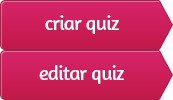
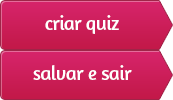
alteracao de nome e tipo para nome, alteracao do botao editar para salvar e sair

Changed region(s): [[0.1734, 0.63, 0.7803, 0.84]]

diff --git a/assets/js/main.js b/assets/js/main.js
@@ -76,7 +76,7 @@ $(function(){
 			var linkPerguntasRespostas 	= '#';
 			var linkCustomizacao 			= '#';
 			var linkExcluir 				= '#';
-			$('.box tbody').append('<tr><td><div class="texto"><p>'+titulo+'</p><span>tipo: '+tipo+' | editado em: '+dataEdicao+'</span></div><div class="botoes"><a class="ver-e-embutir" href="'+linkVerEmbutir+'"></a><ul class="menu-editar"><li><div class="editar"></div><ul class="nav2"><li><a href="'+linkNomeTipo+'">nome e tipo</a></a></li><li><a href="'+linkPerfis+'">perfis</a></a></li><li><a href="'+linkPerguntasRespostas+'">perguntas & respostas</a></a></li><li><a href="'+linkCustomizacao+'">customizacao</a></a></li><li><a href="'+linkExcluir+'">excluir</a></a></li></ul></li></ul></div></td></tr>');
+			$('.box tbody').append('<tr><td><div class="texto"><p>'+titulo+'</p><span>tipo: '+tipo+' | editado em: '+dataEdicao+'</span></div><div class="botoes"><a class="ver-e-embutir" href="'+linkVerEmbutir+'"></a><ul class="menu-editar"><li><div class="editar"></div><ul class="nav2"><li><a href="'+linkNomeTipo+'">nome</a></a></li><li><a href="'+linkPerfis+'">perfis</a></a></li><li><a href="'+linkPerguntasRespostas+'">perguntas & respostas</a></a></li><li><a href="'+linkCustomizacao+'">customizacao</a></a></li><li><a href="'+linkExcluir+'">excluir</a></a></li></ul></li></ul></div></td></tr>');
 		}
 		/*scrolla pro fim da página*/
 		$('html, body').animate({scrollTop:$(document).height()}, 1000);

diff --git a/home.php b/home.php
@@ -24,7 +24,7 @@
 										<ul class="menu-editar">
 											<li><div class="editar"></div>
 												<ul class="nav2">
-													<li><a href="#">nome e tipo</a></a></li>
+													<li><a href="#">nome</a></a></li>
 													<li><a href="#">perfis</a></a></li>
 													<li><a href="#">perguntas & respostas</a></a></li>
 													<li><a href="#">customizacao</a></a></li>
@@ -46,7 +46,7 @@
 										<ul class="menu-editar">
 											<li><div class="editar"></div>
 												<ul class="nav2">
-													<li><a href="#">nome e tipo</a></a></li>
+													<li><a href="#">nome</a></a></li>
 													<li><a href="#">perfis</a></a></li>
 													<li><a href="#">perguntas & respostas</a></a></li>
 													<li><a href="#">customizacao</a></a></li>
@@ -68,7 +68,7 @@
 										<ul class="menu-editar">
 											<li><div class="editar"></div>
 												<ul class="nav2">
-													<li><a href="#">nome e tipo</a></a></li>
+													<li><a href="#">nome</a></a></li>
 													<li><a href="#">perfis</a></a></li>
 													<li><a href="#">perguntas & respostas</a></a></li>
 													<li><a href="#">customizacao</a></a></li>
@@ -90,7 +90,7 @@
 										<ul class="menu-editar">
 											<li><div class="editar"></div>
 												<ul class="nav2">
-													<li><a href="#">nome e tipo</a></a></li>
+													<li><a href="#">nome</a></a></li>
 													<li><a href="#">perfis</a></a></li>
 													<li><a href="#">perguntas & respostas</a></a></li>
 													<li><a href="#">customizacao</a></a></li>
@@ -112,7 +112,7 @@
 										<ul class="menu-editar">
 											<li><div class="editar"></div>
 												<ul class="nav2">
-													<li><a href="#">nome e tipo</a></a></li>
+													<li><a href="#">nome</a></a></li>
 													<li><a href="#">perfis</a></a></li>
 													<li><a href="#">perguntas & respostas</a></a></li>
 													<li><a href="#">customizacao</a></a></li>
@@ -134,7 +134,7 @@
 										<ul class="menu-editar">
 											<li><div class="editar"></div>
 												<ul class="nav2">
-													<li><a href="#">nome e tipo</a></a></li>
+													<li><a href="#">nome</a></a></li>
 													<li><a href="#">perfis</a></a></li>
 													<li><a href="#">perguntas & respostas</a></a></li>
 													<li><a href="#">customizacao</a></a></li>
